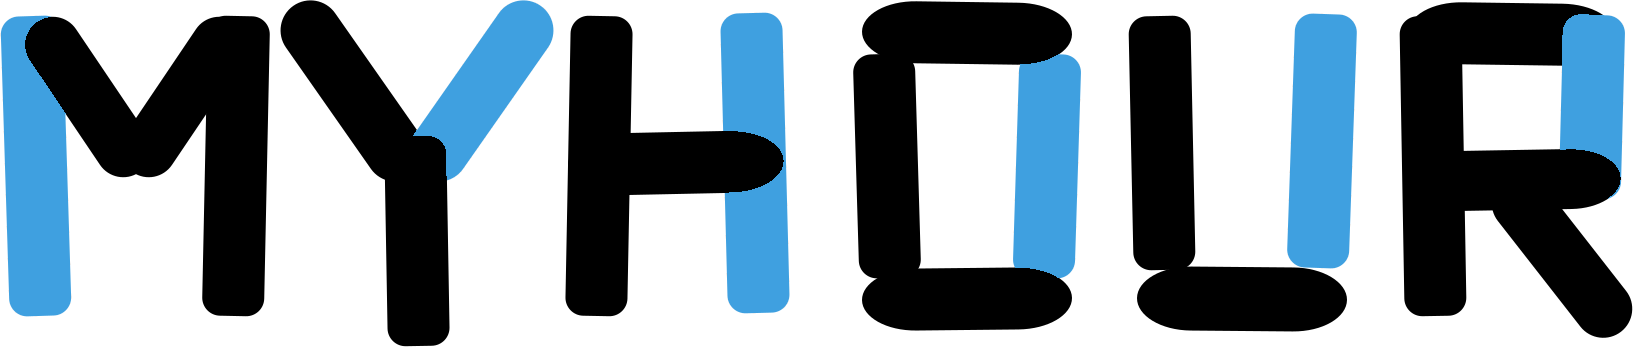
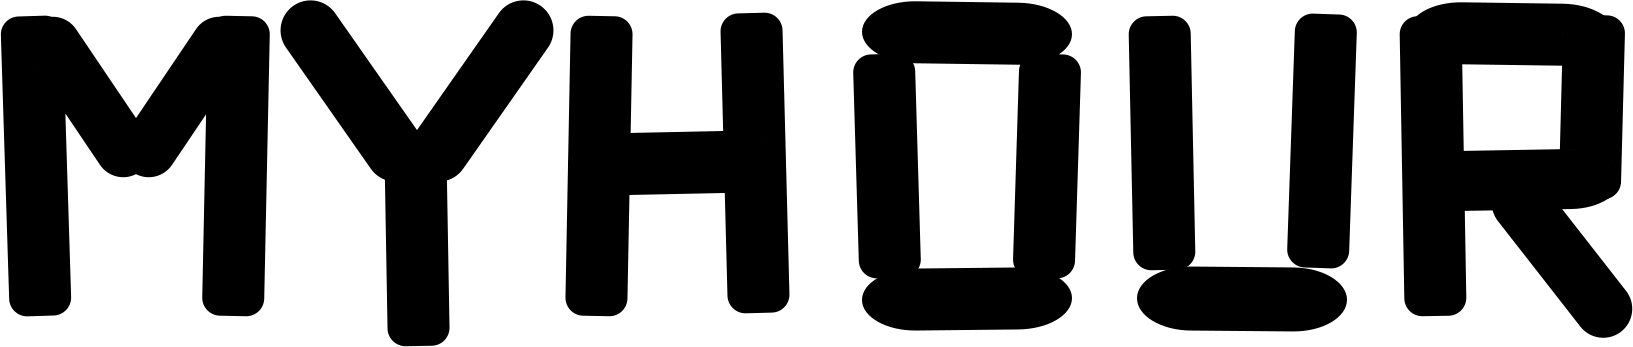
영상 로고를 진한 검정으로, MyHour 워드마크도 전부 검정
Claude-Session: https://claude.ai/code/session_019rUnYYjgvyjbumqmPvrck4

diff --git a/myhour/src/videoWatermark.ts b/myhour/src/videoWatermark.ts
@@ -20,7 +20,7 @@ export function setWatermarkEnabled(on: boolean): void {
 const MARK_H = 78 * 409 / 1340.2;
 const RIGHT = 22;
 const BOTTOM = 27;
-const INK_ALPHA = 0.75;
+const INK_ALPHA = 1;
 const HALO = 2.5;
 
 /** 로고에 흰 테두리를 미리 입혀 둔 캔버스. 프레임마다 이걸 한 번 그리기만 한다 */
@@ -50,7 +50,7 @@ export async function loadWatermark(scale: number): Promise<HTMLCanvasElement | 
   const out = document.createElement('canvas');
   out.width = w; out.height = h;
   const o = out.getContext('2d')!;
-  o.globalAlpha = 0.8;
+  o.globalAlpha = 0.95;
   for (let i = 0; i < 8; i++) {
     const a = i * Math.PI / 4;
     o.drawImage(silhouette, Math.cos(a) * pad, Math.sin(a) * pad);

diff --git a/myhour/CLAUDE.md b/myhour/CLAUDE.md
@@ -118,7 +118,7 @@ pnpm test:e2e
   개별 컴포넌트에서 15px 같은 값을 다시 주면 그 화면만 조용히 확대된다. ② 버튼 더블탭 확대는
   `touch-action: manipulation`으로 막는다. PWA는 주소창이 없어 확대된 배율을 되돌릴 방법이 마땅치 않다.
   핀치 확대는 살려둔다(접근성). 실제로 캡션 입력창(RecordScreen 15px)에서 음성 녹음 후 확대되는 증상이 있었다
-- **영상 로고 (2026-10-29, 펌킨 시안 W1)**: `videoWatermark.ts` — 모든 장면 오른쪽 아래에 작은 HAKKU 워드마크(진한 글씨 75% + 흰 테두리, 흰 로고는 밝은 장면에서 안 보였다). `renderVideo`의 `tick`에서 프레임마다 얹는다(모든 장면이 그린 직후 tick을 부른다). 설정 '영상에 하꾸 로고 넣기'(`hakku_video_watermark_v1`, 기본 켜짐) — 영상은 구독자만 만들어서 '돈 내면 없어지는' 워터마크가 아니라 끌 수 있게 했다. 엔딩 카드의 "하꾸 · 날짜"와는 별개. 영어 폰이면 펌킨이 그린 MyHour 워드마크(`public/brand/myhour-wordmark-transparent.png`, 흰 배경 PNG를 검정·하늘색 획 + 투명으로 분리한 것, 하늘색 포인트 유지)를 쓴다. 두 파일은 여백이 달라서 글자 높이를 맞춘다(HAKKU SVG는 409 중 글자 329)
+- **영상 로고 (2026-10-29, 펌킨 시안 W1)**: `videoWatermark.ts` — 모든 장면 오른쪽 아래에 작은 HAKKU 워드마크(완전한 검정 + 흰 테두리 — 75% 회색은 "짠하다"고 해서 2026-10-29 진하게, 흰 로고는 밝은 장면에서 안 보였다). `renderVideo`의 `tick`에서 프레임마다 얹는다(모든 장면이 그린 직후 tick을 부른다). 설정 '영상에 하꾸 로고 넣기'(`hakku_video_watermark_v1`, 기본 켜짐) — 영상은 구독자만 만들어서 '돈 내면 없어지는' 워터마크가 아니라 끌 수 있게 했다. 엔딩 카드의 "하꾸 · 날짜"와는 별개. 영어 폰이면 펌킨이 그린 MyHour 워드마크(`public/brand/myhour-wordmark-transparent.png`, 흰 배경 PNG를 투명으로 따고 펌킨 요청으로 HAKKU처럼 전부 검정)를 쓴다. 두 파일은 여백이 달라서 글자 높이를 맞춘다(HAKKU SVG는 409 중 글자 329)
 - 엔딩 장면은 3.5초(CLOSE_DUR, 2026-10-29 2초에서 늘림). 등장 애니메이션은 2초 기준으로 t를 늘려 넘겨 예전 속도로 끝난다
 - 녹화/녹음 UI: 5초 넘으면 "이 이후에 녹화(녹음)되는 건 영상에 들어가지 않아요" 안내 + 영상 미리보기·녹음 파형 회색 전환
 - 글 기록 화면엔 영상 미리보기가 없다 (2026-10-29 펌킨 요청으로 뺌 — 예전 네이비 카드 미리보기는 실제 장면과 달랐다). 그 자리엔 쓸 거리 테이프 4개(`PROMPTS`, 누르면 입력칸에 이어 붙고 커서가 끝으로)와 "원하는 모든 순간을 적어봐", 스티커(`components/Doodle`) — 시안 B1. 묶음은 입력칸과 저장 버튼 사이 한가운데, 스티커는 묶음에 붙어 같이 움직인다. 입력칸은 줄노트 네 줄 고정 높이(176, 2026-10-29 펌킨 요청). 키 작은 폰(max-height 720)에선 index.css의 `.prompt-bundle` 간격을 줄이고 물결 스티커를 숨긴다

diff --git a/aidlc-docs/audit.md b/aidlc-docs/audit.md
@@ -633,3 +633,11 @@ git pull --ff-only"
 **Context**: 사용자 디자인 반영
 
 ---
+
+## 영상 로고 진하게 + MyHour 검정
+**Timestamp**: 2026-10-29T17:10:33Z
+**User Input**: "Myhour도 다 검정으로 바꿔야지 그리고 지금 워터마크 색 너무 짠해 ㅠㅠ"
+**AI Response**: "MyHour 워드마크 하늘색 획을 검정으로(투명도 유지). 영상 로고를 75% 회색 → 완전한 검정, 흰 테두리 0.8 → 0.95. 한국어·영어 폰 설정으로 실제 영상을 만들어 전후 비교. 테스트 통과."
+**Context**: 사용자 피드백 반영
+
+---
